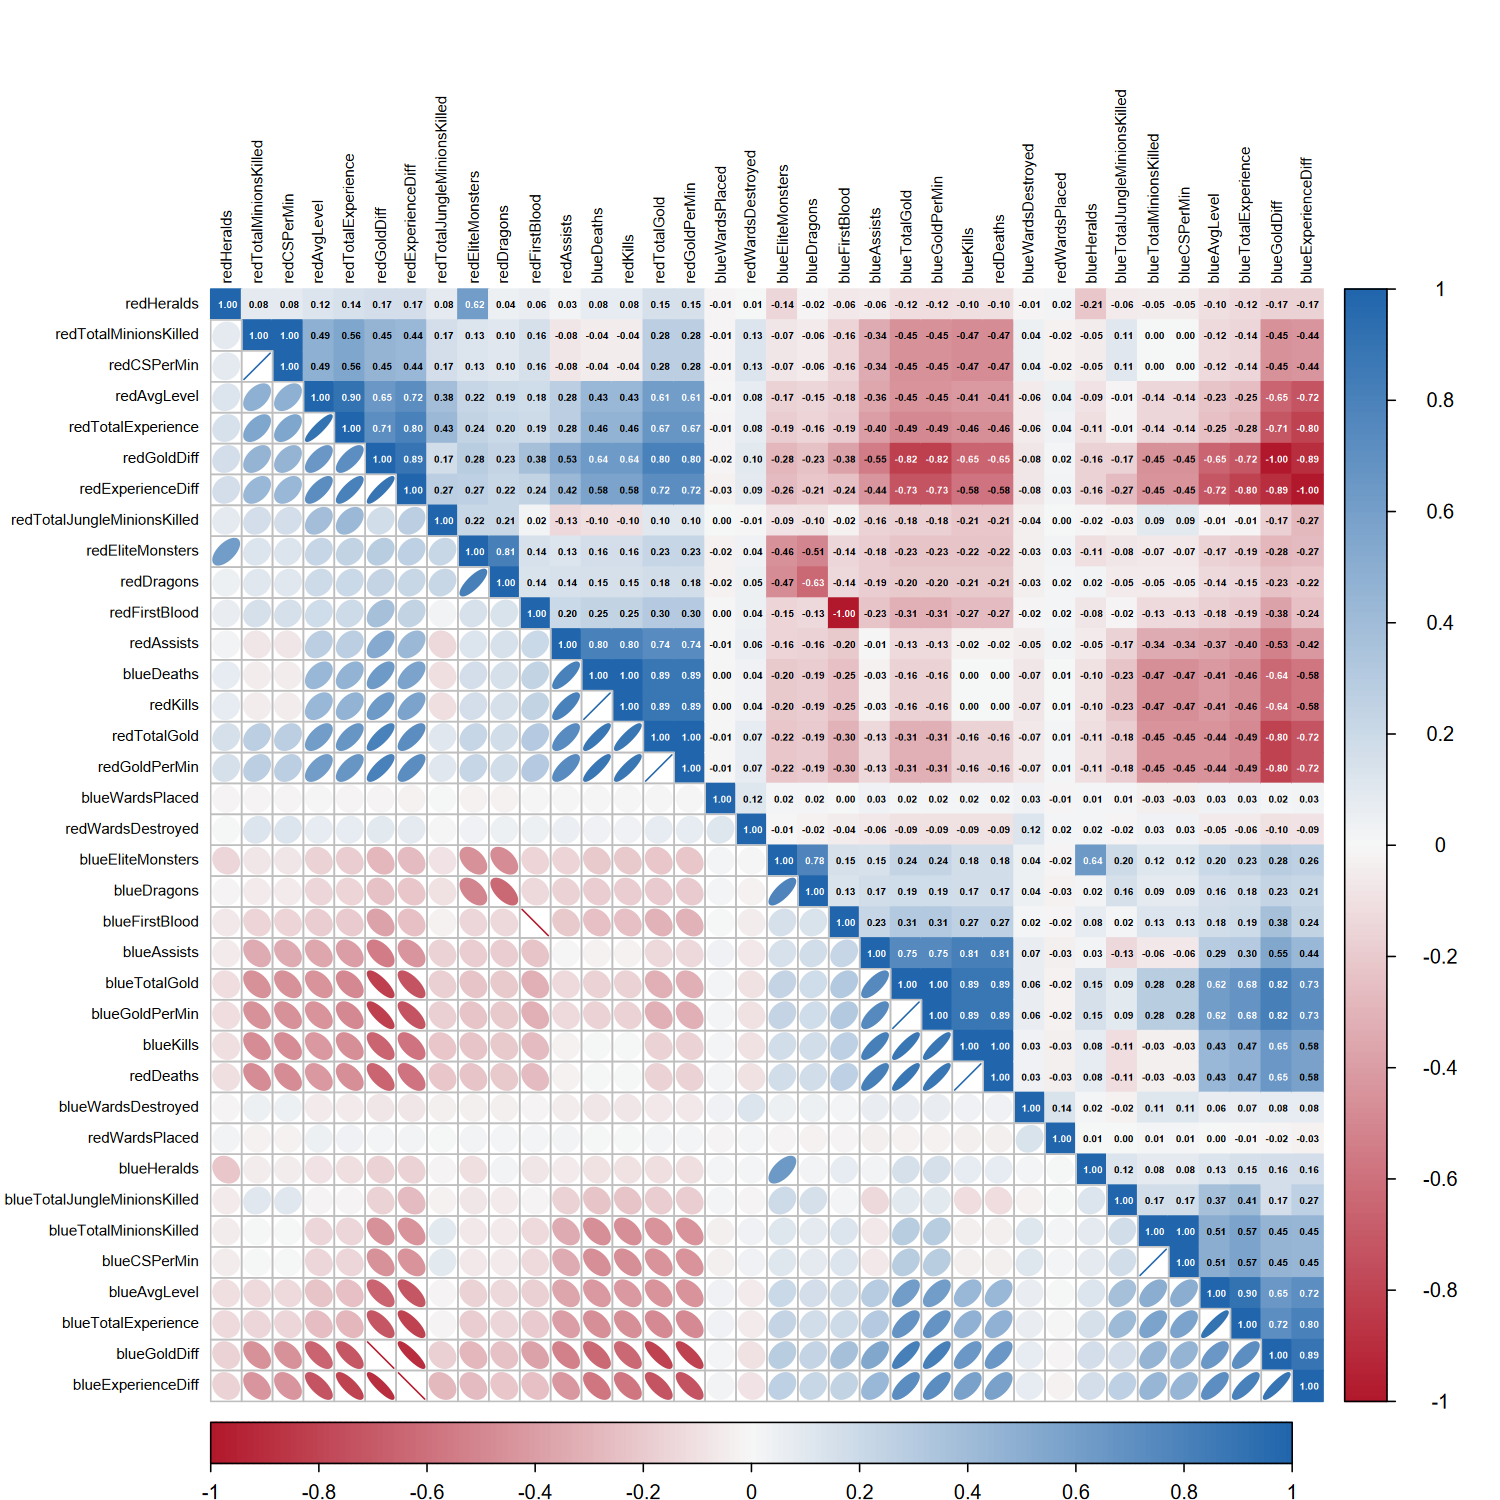
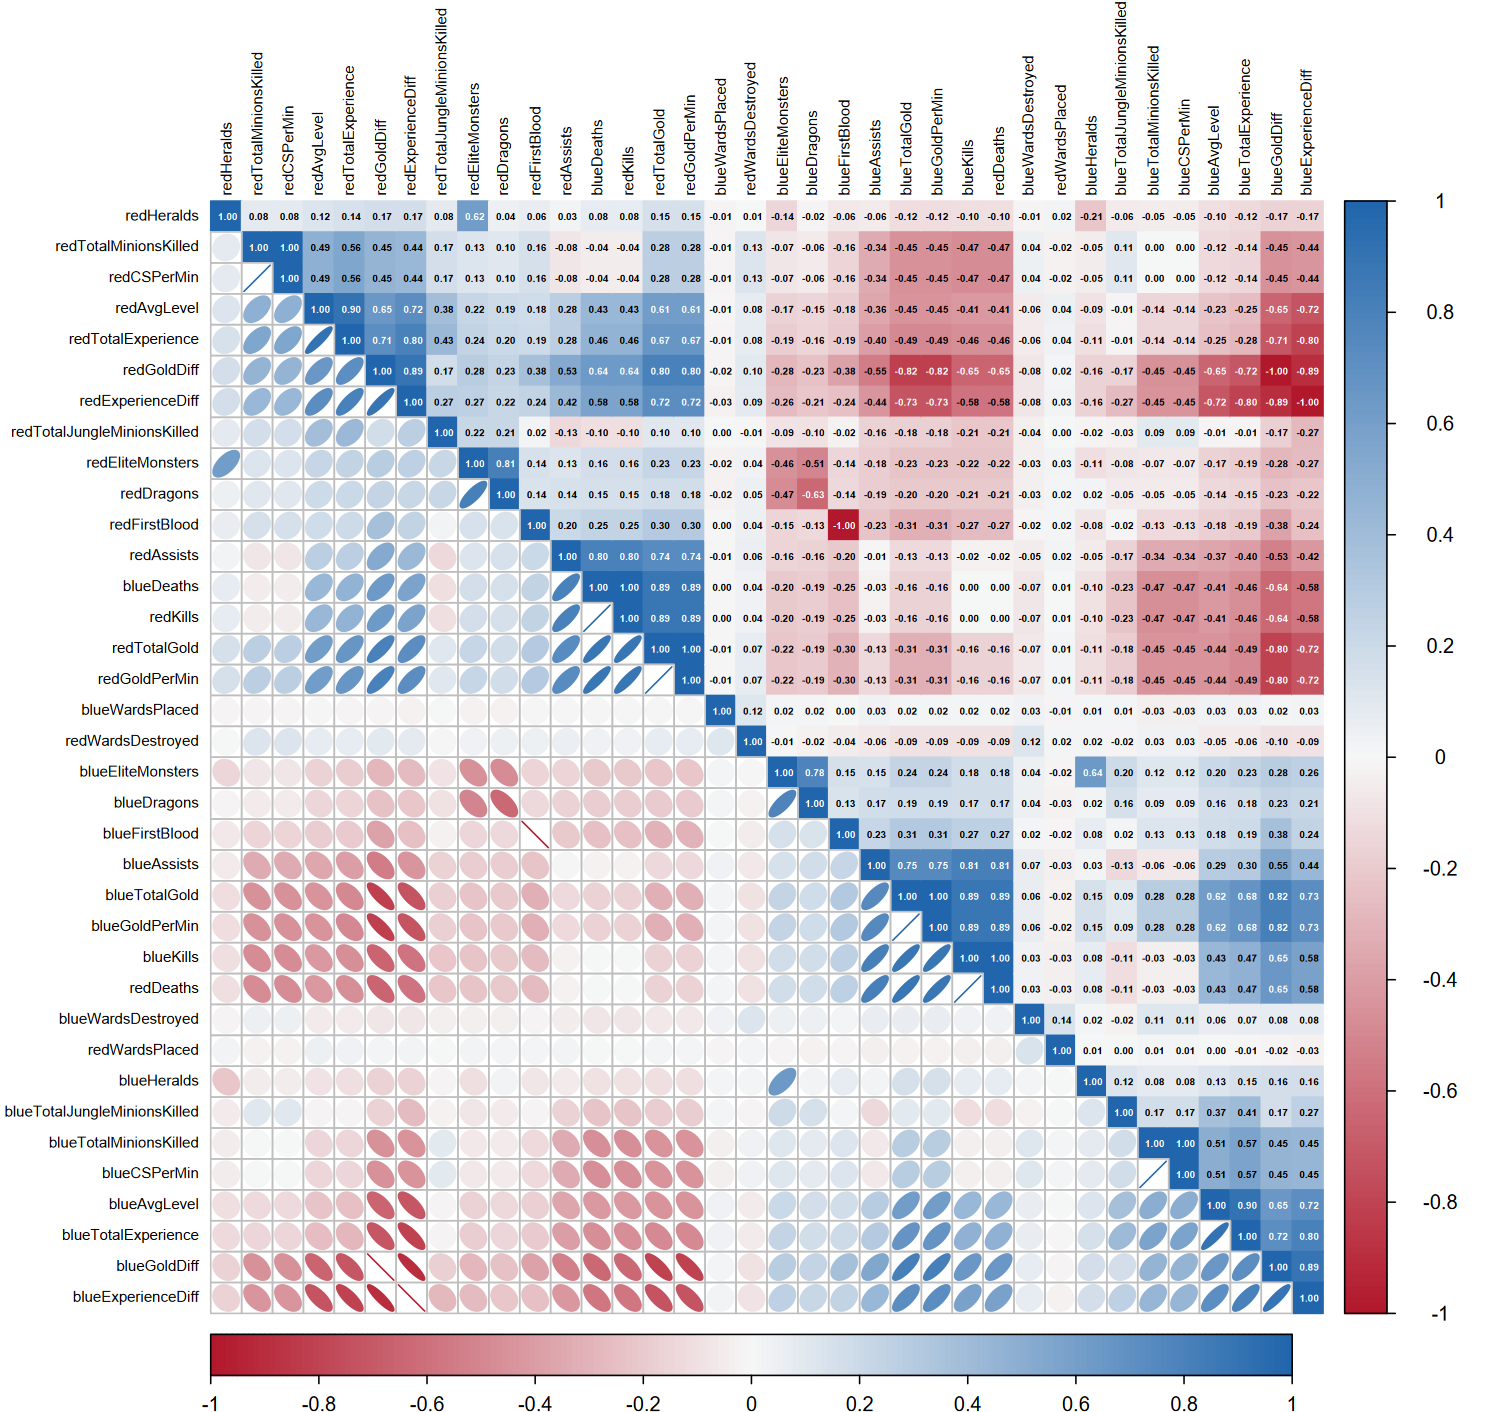
latex abstract et reliquum

diff --git a/latex/dokument.tex b/latex/dokument.tex
@@ -75,13 +75,13 @@
 
 %% ---- Abstract (max 250 words, no citations) ----
 \begin{abstract}
-Lorem ipsum dolor sit amet, consectetur adipiscing elit. Cras ex odio, elementum sit amet quam ac, accumsan pharetra libero. Suspendisse odio nisi, consequat sed ornare sed, convallis sed nulla. Nunc nec enim ut nisi facilisis cursus. Cras nec enim neque. Quisque nec consectetur odio. Pellentesque eget euismod sapien. Cras urna urna, gravida a eros eget, tincidunt scelerisque metus. Ut eget mi vehicula augue bibendum dapibus. Ut tempus tellus eros, eu lobortis est dignissim sit amet. Integer id molestie dolor. Mauris tincidunt nunc erat, ut suscipit lacus pharetra varius. Sed quis neque ut ligula vestibulum egestas a sed felis. Quisque vulputate tincidunt metus. 
+W pracy przeanalizowano możliwość przewidywania wyniku meczów rankingowych gry League of Legends na podstawie danych dostępnych po pierwszych 10 minutach rozgrywki. Wykorzystano publiczny zbiór danych zawierający 9879 meczów oraz statystyki opisujące m.in. ekonomię drużyn, kontrolę mapy i przebieg walk. Przeprowadzono proces przygotowania danych obejmujący usuwanie wartości odstających, standaryzację zmiennych, redukcję cech silnie skorelowanych oraz agregację wybranych zmiennych z wykorzystaniem analizy PCA. Następnie zastosowano pięć metod klasyfikacji: sieć neuronową MLP, drzewo klasyfikacyjne, algorytm k najbliższych sąsiadów (KNN) oraz dwa modele hybrydowe. Skuteczność modeli oceniono za pomocą miar Accuracy i AUC. Najlepsze wyniki uzyskała sieć neuronowa, osiągając dokładność 73,31\% oraz AUC równe 0,811. Otrzymane rezultaty wskazują, że informacje dostępne we wczesnej fazie meczu pozwalają z dobrą skutecznością przewidywać jego końcowy wynik.
+
 \end{abstract}
-
-%% ---- Keywords (minimum 3, maximum 5) ----
-\keywords{League of Legends, LoL, klasyfikacja, predykcja wyniku meczu, sieci neuronowe, drzewo klasyfikacyjne, KNN}
-
+\keywords{League of Legends, LoL, klasyfikacja, predykcja wyniku meczu, sieci neuronowe, drzewo klasyfikacyjne, KNN, model hybrydowy}
+\small
 \tableofcontents
+\normalsize
 \newpage
 
 %% ============================================================
@@ -96,7 +96,7 @@ Współczesne gry sieciowe generują duże ilości danych opisujących przebieg 
 
 Problem badawczy poruszany w niniejszej pracy dotyczy możliwości przewidywania wyniku meczu rankingowego na podstawie statystyk z pierwszych 10 minut rozgrywki, gdzie przecięty mecz trwa 30 minut. W pracy wykorzystano dane dotyczące meczów rankingowych w celu zbadania, czy metody klasyfikacji pozwalają przewidywać zwycięstwo lub porażkę drużyny niebieskiej na podstawie cech opisujących początkową fazę meczu. Dodatkowym celem jest określenie, które zmienne mają największy wpływ na skuteczność modeli klasyfikacyjnych.
 
-\subsection{Wyjaśnienie terminów}
+Wyjaśnienie terminów:
 \begin{itemize}
 \item \textbf{Doświadczenie} --- Doświadczenie (experience, XP) jest zasobem zdobywanym przez bohaterów podczas rozgrywki głównie poprzez przebywanie w pobliżu eliminowanych przeciwników, takich jak miniony czy potwory z dżungli. Zdobywanie doświadczenia pozwala bohaterom awansować na kolejne poziomy, co zwiększa ich statystyki oraz umożliwia rozwijanie umiejętności.
 \item \textbf{Złoto}---- Złoto jest podstawową walutą występującą w grze. Może być zdobywane między innymi poprzez eliminowanie minionów, bohaterów przeciwnika, potworów z dżungli oraz niszczenie struktur. Zgromadzone złoto pozwala na zakup przedmiotów zwiększających siłę bohatera.
@@ -123,7 +123,7 @@ jako wygrana lub przegrana drużyny niebieskiej.
 
 Istotnym elementem pracy jest porównanie wyników uzyskanych za pomocą trzech
 metod klasyfikacji: sieci neuronowych, drzewa klasyfikacyjnego oraz KNN,
-a także metody mieszanej [TODO][NAZWA METODY MIESZANEJ], łączącej cechy wybranych podejść.
+a także dwóch metod mieszanych, łączących cechy wybranych podejść.
 Celem analizy jest wskazanie, które z zastosowanych rozwiązań najlepiej przewiduje wynik
 meczu na podstawie danych dostępnych na wczesnym etapie gry.
 
@@ -133,35 +133,17 @@ rezultatu.
 
 Zakres badania obejmuje:
 \begin{itemize}
-\item charakterystykę oraz analizę zbioru danych zawierającego statystyki meczów League of Legends,
-\item przeprowadzenie wstępnej analizy danych, obejmującej statystyki opisowe oraz analizę korelacji pomiędzy zmiennymi,
-\item przygotowanie danych do procesu uczenia modeli, w tym obsługę wartości odstających, analizę braków danych, skalowanie cech oraz usunięcie zbędnych zmiennych,
-\item analizę końcowego zbioru danych po przeprowadzeniu preprocessingu,
-\item przedstawienie teoretycznych podstaw zastosowanych metod klasyfikacji,
-\item implementację oraz zastosowanie metod klasyfikacji: sieci neuronowe, drzewo klasyfikacyjne, KNN oraz [TODO][NAZWA METODY HYBRYDOWEJ],
-\item ocenę skuteczności modeli przy użyciu wybranych miar jakości klasyfikacji,
-\item analizę i interpretację uzyskanych wyników,
-\item porównanie skuteczności zastosowanych metod klasyfikacji,
-\item wykorzystanie najlepszego modelu do klasyfikacji syntetycznie wygenerowanych danych testowych.
-\end{itemize}
-[TODO][zweryfikowac czy ta lista jest poprawna]
-
-Analizę danych oraz implementację modeli klasyfikacyjnych wykonano przy użyciu języka R. Obliczenia przeprowadzono w środowisku RStudio. Użyte biblioteki:
-\begin{itemize}
-    \item keras3
-    \item tensorflow
-    \item synthpop
-    \item dplyr
-    \item ggplot2
-    \item ggtext
-    \item factoextra
-    \item corrplot
-    \item psych
-    \item caret
-    \item tree
-    \item class
+\item analizę surowego zbioru danych,
+\item przygotowanie zbioru do modeli klasyfikacyjnych,
+\item analizę końcowego zgioru danych,
+\item zastosowanie wybranych modeli klasyfikacyjnych i ich walidacja,
+\item ocenienie i interpretacja wyników klasyfikatorów,
+\item porównanie skuteczności modeli,
+\item przetestowanie modeli na syntetycznych danych,
 \end{itemize}
 
+Analizę danych oraz implementację modeli klasyfikacyjnych wykonano przy użyciu języka R. Obliczenia przeprowadzono w środowisku RStudio. Użyte biblioteki: \textit{synthpop, psych, class, caret, keras3, ggplot2, tree, factoextra, corrplot, ggtext, dplyr} oraz \textit{tensorflow}.
+\newpage
 \subsection{Zbiór danych}
 W pracy wykorzystano publicznie dostępny zbiór danych zawierający statystyki meczów rankingowych gry League of Legends. Dane pochodzą z serwisu Kaggle i zostały pozyskane przy użyciu oficjalnego API udostępnianego przez Riot Games.
 
@@ -174,7 +156,6 @@ Zbiór danych składa się z 9879 rekordów oraz 40 zmiennych. Zmienną decyzyjn
 Klasy w zbiorze danych są w przybliżeniu zbalansowane, co oznacza, że liczba zwycięstw drużyny niebieskiej i czerwonej jest podobna.
 
 \subsection{Przeglad literatury}
-[TODO][DODAC CYTOWNIA DO PRAC Z KAGGLA][wspomniec czym sie zainspirowalismy z pracy francuza]
 Ze względu na ograniczoną liczbę prac dotyczących wczesnej fazy gry w League of Le-
 gends, przegląd oparto głównie na dwóch analizach z Kaggle wykorzystujących ten sam
 zbiór danych. 
@@ -283,7 +264,7 @@ x =
 Po oznaczeniu wartości odstających jako brakujące usuwano wszystkie rekordy zawierające przynajmniej jedną wartość \texttt{NA}. Ostatecznie ze zbioru danych usunięto 190 rekordów, co stanowiło w przybliżeniu 1.92\% wszystkich obserwacji.
 
 Zastosowana metoda pozwoliła ograniczyć wpływ skrajnych obserwacji na proces uczenia modeli oraz zmniejszyć ryzyko zaburzenia działania algorytmów przez nietypowe wartości.
-
+\newpage
 \subsection{Standaryzowanie danych}
 
 W celu ujednolicenia rozkładów oraz zakresów wartości poszczególnych cech zastosowano standaryzację danych z wykorzystaniem funkcji \texttt{scale()} dostępnej w języku R. Metoda ta polega na przekształceniu wartości zmiennych w taki sposób, aby każda cecha posiadała średnią równą 0 oraz odchylenie standardowe równe 1.
@@ -313,6 +294,7 @@ W wyniku zastosowania standaryzacji wszystkie analizowane cechy numeryczne zosta
 	\item redTowersDestroyed
 \end{itemize}
 \indent Otrzymaliśmy więc cechę "TowersDestroyed" dla obu drużyn. Dodatkowo z tabeli 1 wiemy, że ich mediany wynoszą 0. Nie powinno to zaskakiwać, jako że w pierwszych 10 minutach rozgrywki - względnie początkowej fazie - rzadko się zdarza zniszczenie wieży przeciwnika. W związku z powyższym usuwamy te 2 cechy z naszego data setu.
+\newpage
 \subsubsection{Skorelowane prosto, liniowo}
 \indent Cechy skorelowane prosto, liniowo, to takie, pomiędzy którymi istnieje korelacja cecha do cechy. Ergo w tej podsekcji zajmiemy się znajdowaniem takich par i usuwaniu jednej z cech na tej podstawie. Wykorzystamy do tego wbudowaną funkcję w R o nazwie "cor". Za jej pomocą stworzymy macierz korelacji. Wizualizacji dokonamy z wykorzystaniem funkcji "corrplot" z pakietu o tej samej nazwie.
 \begin{figure}[H]
@@ -322,7 +304,7 @@ W wyniku zastosowania standaryzacji wszystkie analizowane cechy numeryczne zosta
 	}
 	\caption{Macierz korelacji dla wszystkich zmiennych bez quasi stałych 1.}
 \end{figure}
-\begin{samepage}
+\newpage
 \indent Powyższa macierz przedstawia korelacje liniowe, proste pomiędzy wszystkimi zmiennymi, jakie nam zostały po usunięciu quasi stałych. Na jego postawie możemy znaleźć bardzo silnie skorelowane, czyli takie, których poziom korelacji jest większy bądź równy 0.9, pary cech:
 \begin{table}[H]
   \centering
@@ -345,8 +327,6 @@ W wyniku zastosowania standaryzacji wszystkie analizowane cechy numeryczne zosta
 \end{tabular}
 \caption{Tabela korelacji silnie skorelowanych zmiennych 1.}
 \end{table}
-\end{samepage}
-\begin{samepage}
 \indent Na podstawie powyższego możemy usunąć następujące cech;
 \begin{itemize}
 	\item blueFirstBlood
@@ -361,7 +341,6 @@ W wyniku zastosowania standaryzacji wszystkie analizowane cechy numeryczne zosta
 	\item redAvgLevel 
 	\item redTotalMinionsKilled 
 \end{itemize}
-\end{samepage}
 \begin{samepage}
 \subsubsection{Skorelowane wielokrotnie, liniowo}
 \indent \indent Dodatkowo, możemy, korzystając z definicji poszczególnych cech, zebrać korelacje wielokrotne, liniowe; innymi słowy takie korelacje, w których to jedna zmienna jest skorelowana liniowo z więcej niż jedną. Takich relacji mamy aż 6 i są one przedstawione poniżej:
@@ -382,7 +361,7 @@ W wyniku zastosowania standaryzacji wszystkie analizowane cechy numeryczne zosta
 	\item $blueTotalExperience$ i $redTotalExperience$ jako że uznajemy różnicę między nimi za istotniejszą od tych zmiennych samych w sobie
 \end{itemize}
 \end{samepage}
-
+\newpage
 \subsection{Łączenie zmiennych}
 \indent \indent Po porzedniej podsekcji zostały nam cechy przedstawione na narysowanej poniżej macierzy korelacji:
 \begin{figure}[H]
@@ -409,7 +388,7 @@ W wyniku zastosowania standaryzacji wszystkie analizowane cechy numeryczne zosta
 \end{tabular}
 \caption{Tabela korelacji silnie skorelowanych zmiennych 2.}
 \end{table}
-\indent Te cechy zagragujemy liniowo w jedną, dla każdej drużyny, wedle następującej reguły:
+\indent Te cechy zagragujemy liniowo w jedną, dla każdej drużyny, wedle następującej reguły \cite{arancio_decisions_10min}:
 \begin{equation}
 	KA = Kills + Assists
 \end{equation}
@@ -486,6 +465,7 @@ W skrypcie będziemy bazować na wbudowanej funkcji "prcomp" i do wizualizacji r
 \indent Po wykonaniu wszystkich kroków usuwania silnie i bardzo silnie skorelowanych cech możemy przedstawić jak ostatecznie wygląda macierz korelacji. Dodatkowo macierz uwzględnia cechę $blueWins$, aby dodatkowo ukazać jak silnie jest ona skorelowana ze zmiennymi, które ostatecznie zostały.
 
 \section{Analiza końcowego zbioru danych}
+Po wstępnym przetworzeniu zbioru danych zostało nam 9689 rekordów oraz 16 zmiennych (nie licząc zmiennej przewidywanej).
 \subsection{Wyjaśnienie zmiennych}
 \begin{itemize}
 	\item {\bf blueWardsPlaced} --- Ilość wardów postawionych przez druyżynę niebieską.
@@ -505,9 +485,9 @@ W skrypcie będziemy bazować na wbudowanej funkcji "prcomp" i do wizualizacji r
 	\item {\bf redKA} --- Łączna ilość zabójstw i asyst drużyny czerwonej.
 	\item {\bf diff\_PCA\_Component\_1} --- Nowa zmienna utworzona w procesie PCA ze zmiennych \textit{redGoldDiff} i \textit{redExperienceDiff}.
 \end{itemize}
-
+\newpage
 \subsection{Charakterystyka zmiennych}
-Zmienne opisujące opisujące ilość zabitych smoków i heroldów powinny być zmiennymi numerycznymi jednak przez ograniczoną naturę badanego zbioru danych przyjmują jedynie wartości 0 lub 1. Z tego powodu zostały one opisane jako zmienne binarne.
+Zmienne opisujące ilość zabitych smoków i heroldów powinny być zmiennymi numerycznymi jednak przez ograniczoną naturę badanego zbioru danych przyjmują jedynie wartości 0 lub 1. Z tego powodu zostały one opisane jako zmienne binarne.
 \begin{table}[H]
 \centering
 \begin{tabular}{l l l l}
@@ -564,9 +544,9 @@ Zmienne opisujące opisujące ilość zabitych smoków i heroldów powinny być 
 }
 \caption{Statystyki opisowe końcowych zmiennych.}
 \end{table}
-
+\newpage
 \subsection{Wizualizacja}
-Poniżej przedstawiono wizualizacje zmiennych po wstępnej analizie danych z pominięciem skalowania dla zachowania czytelności wykresów.
+Poniżej przedstawiono wizualizacje zmiennych po wstępnej analizie danych z pominięciem skalowania dla zachowania czytelności wykresów. Dla zmiennych skokowych posiadających więcej niż 55 unikatowych wartości wygenerowano histogramy zamiast barplotów.
 %%%%%%%%%%%%%%%%%%%%%%%%%%%%%%%%%%%%%%%%%%%%%%%%%%%%%%%%%%%%%%%%%
 \begin{figure}[H]
 	\centering
@@ -894,10 +874,41 @@ gdzie:
     \item $I(\cdot)$ -- funkcja wskaźnikowa przyjmująca wartość 1, gdy warunek jest spełniony, oraz 0 w przeciwnym przypadku.
 \end{itemize}
 
-Oprócz przewidywanej klasy algorytm wyznacza również prawdopodobieństwo przynależności do klasy pozytywnej, obliczane jako udział sąsiadów należących do tej klasy.
-
 %%%%%%%%%%%%%%%%%%%%%%%%%%%%%%%%%%%%%%%%%%%%%%%%%%%%%%%%%%%%%%%%%
-\subsection{Opis metody hybrydowej}
+\subsection{Metoda hybrydowa - średnia arytmetyczna}
+W podejściu hybrydowym wykorzystano trzy modele predykcyjne: sieć neuronową, drzewo decyzyjne oraz algorytm $k$-NN. Każdy z modeli generuje prawdopodobieństwo przynależności do klasy pozytywnej. Następnie wyniki te są agregowane poprzez uśrednienie, co pozwala uzyskać końcową prognozę w postaci jednego wskaźnika decyzyjnego:
+
+\begin{equation}
+S = \frac{P_{NN} + P_{KNN} + P_{TREE}}{3}
+\end{equation}
+
+gdzie:
+\begin{itemize}
+	\item $P_{NN}$ --- prawdopodobieństwo uzyskane z sieci neuronowej,
+	\item $P_{KNN}$ --- prawdopodobieństwo uzyskane z KNN,
+	\item $P_{TREE}$ --- prawdopodobieństwo uzyskane z drzewa decyzyjnego.
+\end{itemize}
+
+Na podstawie wartości $S$ wyznaczana jest klasa predykcji z wykorzystaniem progu decyzyjnego $0.5$:
+
+\begin{equation}
+\hat{y} =
+\begin{cases}
+1 & \text{dla } S \geq 0.5 \\
+0 & \text{dla } S < 0.5
+\end{cases}
+\end{equation}
+
+W tym podejściu nie stosowano dodatkowego podziału na zbiór treningowy i testowy, ponieważ wszystkie modele bazowe były już wcześniej trenowane i oceniane na zbiorze testowym. W związku z tym, w metodzie hybrydowej cały dostępny zbiór traktowany jest jako zbiór testowy i wykorzystywany wyłącznie do agregacji wyników modeli składowych.
+
+\subsection{Metoda hybrydowa - sieć neuronowa}
+Model hybrydowy oparty na sieci neuronowej stanowi rozszerzenie bazowej sieci MLP. W przeciwieństwie do modelu bazowego, który wykorzystuje bezpośrednio cechy wejściowe zbioru danych, w podejściu hybrydowym jako dane wejściowe zastosowano prawdopodobieństwa klas wygenerowane przez trzy niezależne klasyfikatory: sieć neuronową MLP, algorytm k najbliższych sąsiadów (KNN) oraz drzewo klasyfikacyjne.
+
+Uzyskane wartości prawdopodobieństw zostały połączone w nowy zbiór cech, który następnie wykorzystano do trenowania końcowej sieci neuronowej pełniącej rolę klasyfikatora nadrzędnego. Takie podejście należy do metod typu \textit{stacking}, w których predykcje modeli bazowych stanowią wejście dla modelu wyższego poziomu.
+
+Pod względem architektury model hybrydowy zachowuje taką samą strukturę jak bazowa sieć neuronowa, tj. dwie warstwy ukryte oraz warstwę wyjściową. Ze względu na mniejszą liczbę cech wejściowych zmodyfikowano jednak liczbę neuronów w warstwach ukrytych. W modelu bazowym zastosowano odpowiednio 128 i 64 neurony, natomiast w modelu hybrydowym liczby te zredukowano do 32 i 8 neuronów. Pozostawiono te same funkcje aktywacji, warstwy regularyzacyjne typu \texttt{Dropout}, funkcję kosztu \texttt{binary\_crossentropy} oraz optymalizator \texttt{RMSprop}.
+
+W porównaniu z bazową siecią neuronową model hybrydowy operuje na trzech cechach wejściowych odpowiadających predykcjom modeli bazowych, zamiast na pełnym zbiorze cech opisujących obserwacje. Celem takiej konstrukcji jest połączenie mocnych stron różnych algorytmów klasyfikacyjnych i uzyskanie lepszej jakości predykcji niż w przypadku pojedynczego modelu.
 %%%%%%%%%%%%%%%%%%%%%%%%%%%%%%%%%%%%%%%%%%%%%%%%%%%%%%%%%%%%%%%%%
 \subsection{Metody oceniania}
 
@@ -1038,9 +1049,75 @@ Wartość AUC przyjmuje wartości z przedziału $[0,1]$, gdzie wartość 1 oznac
         \label{fig:both_images}
     \end{figure}
 
-\subsection{Rezultat metody hybrydowej}
+\newpage
+\subsection{Metoda hybrydowa - średnia arytmetyczna}
+    \begin{figure}[H]
+        \centering
+        \includegraphics[width=0.7\textwidth]{../Plots/confusion_matrixes/Mixed_AVG_real_data .png}
+	\caption{Macierz pomyłek dla metody mieszanej na bazie średniej arytmetycznej.}
+        \label{fig:both_images}
+    \end{figure}
+    \begin{figure}[H]
+        \centering
+        \includegraphics[width=0.6\textwidth]{../Plots/roc_curves/roc_Model hybrydowy śr. (R).png}
+	\caption{Wykres krzywej ROC dla metody mieszanej na bazie średniej arytmetycznej.}
+        \label{fig:both_images}
+    \end{figure}
+
+
+\newpage
+\subsection{Metoda hybrydowa - sieć neuronowa}
+    \begin{figure}[H]
+        \centering
+        \includegraphics[width=0.7\textwidth]{../Plots/confusion_matrixes/Mixed_NN_real_data.png}
+	\caption{Macierz pomyłek dla metody mieszanej na bazie sieci neuronowej.}
+        \label{fig:both_images}
+    \end{figure}
+    \begin{figure}[H]
+        \centering
+        \includegraphics[width=0.6\textwidth]{../Plots/roc_curves/roc_Model hybrydowy MLP(R).png}
+	\caption{Wykres krzywej ROC dla metody mieszanej na bazie sieci neuronowej.}
+        \label{fig:both_images}
+    \end{figure}
+
+
+\newpage
 \subsection{Porównanie skuteczności metod}
-\subsection{Użycie najlepszego modelu na syntetycznych danych}
+
+\begin{table}[H]
+  \centering
+\begin{tabular}{l c c}
+	\toprule
+	\textbf{Model} & \textbf{Accuracy} &  \textbf{AUC}  \\
+	\midrule
+	Sieci Neuronowe & 73,31\% & 0,811 \\ 
+	Drzewo Klasyfikacyjne &  72,69\% & 0,782 \\
+	KNN  & 71,59\% & 0,793 \\
+	hybr. - Sieć neuronowa  & 71,67\% & 0,802 \\
+	hybr. Średnia & 72,96\%  & 0,808 \\
+	\bottomrule
+\end{tabular}
+\caption{Rezultaty modeli na danych testowych.}
+\end{table}
+
+\subsection{Użycie modeli na syntetycznych danych}
+W celu sprawdzenia działania modeli na nowych obserwacjach wygenerowano syntetyczny zbiór danych z wykorzystaniem pakietu \texttt{synthpop} w języku R. Do syntezy zastosowano metodę \texttt{CART} (\textit{Classification and Regression Trees}), która modeluje zależności między zmiennymi za pomocą drzew decyzyjnych i na ich podstawie generuje nowe rekordy. Wygenerowany zbiór zawierał 9689 syntetycznych obserwacji. Parametr \texttt{cart.minbucket = 10} ogranicza nadmierne dopasowanie modelu, natomiast \texttt{seed = 67} zapewnia powtarzalność wyników. Otrzymany zbiór syntetyczny został wykorzystany jako dane testowe dla opracowanych modeli predykcyjnych.
+
+\begin{table}[H]
+  \centering
+\begin{tabular}{l c c}
+	\toprule
+	\textbf{Model} & \textbf{Accuracy} &  \textbf{AUC}  \\
+	\midrule
+	Sieci Neuronowe & 72,82\% & 0,804 \\ 
+	Drzewo Klasyfikacyjne &  71,49\% & 0,769 \\
+	KNN  & 71,47\% & 0,789 \\
+	hybr. - Sieć neuronowa  & 72,69\% & 0,805 \\
+	hybr. - Średnia & 72,48\%  & 0,800 \\
+	\bottomrule
+\end{tabular}
+\caption{Rezultaty modeli na danych syntetycznych.}
+\end{table}
 
 \section{Podsumowanie}
 
@@ -1052,7 +1129,8 @@ Poniżej znajduje się lista załączonych plików do projektu wraz z ich opisam
 \item \textbf{CorrelationWisualization.R} --- Analiza i wizualizacja korelacji oraz usuwanie silnie skorelowanych zmiennych.
 \item \textbf{endDatasetWisualization.R} --- Generowanie wykresów opisujących cechy końcowego zbioru danych.
 \item \textbf{KNN.R} --- Implementacja klasyfikatora KNN z doborem parametru k i oceną modelu.
-\item \textbf{MixedModel.R} --- Implementacja modelu mieszanego na bazie trzech modeli podstawowych oraz jego ocena. 
+\item \textbf{MixedModel.R} --- Implementacja modelu mieszanego na bazie średniej arytmetycznej oraz jego ocena.
+\item \textbf{MixedModelNeural.R} --- Implementacja modelu mieszanego na bazie sieci nauronowych oraz jego ocena.
 \item \textbf{PCA.R} --- Redukcja wymiarowości danych metodą PCA wraz z wizualizacją wyników.
 \item \textbf{PreliminaryAnalisys.R} --- Wstępne przygotowanie i przetwarzanie danych.
 \item \textbf{ROC.R} --- Generowanie krzywych ROC i obliczanie wartości AUC.
@@ -1086,21 +1164,21 @@ Dostęp: \url{https://www.kaggle.com/code/jeremyarancio/which-decisions-before-1
 % NN
 \bibitem{NN}
 Albina Jegorowa, Jarosław Kurek, Michał Kruk, Jarosław Górski,
-\textit{Artykuł z Forests},
+\textit{The Use of Multilayer Perceptron (MLP) to Reduce Delamination during Drilling into Melamine Faced Chipboard},
 Forests, vol. 13, no. 6, 2022, art. 933.  
 Dostęp: \url{https://doi.org/10.3390/f13060933}
 
 % TREE
 \bibitem{TREE}
 Krzysztof Gajowniczek, Marcin Dudziński,
-\textit{Artykuł z Entropy},
+\textit{Influence of Explanatory Variable Distributions on the Behavior of the Impurity Measures Used in Classification Tree Learning},
 Entropy, vol. 26, no. 12, 2024, art. 1020.  
 Dostęp: \url{https://doi.org/10.3390/e26121020}
 
 % KNN
 \bibitem{KNN}
 Tomasz Ząbkowski \textit{et al.},
-\textit{Artykuł z Energies},
+\textit{Changing Electricity Tariff—An Empirical Analysis Based on Commercial Customers’ Data from Poland},
 Energies, vol. 16, no. 19, 2023, art. 6853.  
 Dostęp: \url{https://doi.org/10.3390/en16196853}
 \end{thebibliography}

diff --git a/latex/library_extracter.py b/latex/library_extracter.py
@@ -1,0 +1,33 @@
+import os
+import re
+
+repo_path = r"D:\School\SGGW\semestr_4\Metody analizy danych\projekt2\repo"
+
+r_files = []
+for file in os.listdir(repo_path):
+    if file.endswith(".R"):
+        r_files.append(file)
+
+libraries = []
+
+for file in r_files:
+    file_path = repo_path + "\\" + file
+    print(file_path)
+    
+    with open(file_path, "r", encoding="utf-8") as f:
+        file_content = f.read()
+
+    pattern = r"library\((.*?)\)"
+    matches = re.findall(pattern, file_content)
+    libraries += matches
+    print(matches)
+    print()
+
+libraries = list(set(libraries))
+print(libraries)
+print()
+
+print(r"\textit{" + libraries[0], end="")
+for lib in libraries[1:-1]:
+    print(", " + lib, end="")
+print("} oraz " + r"\textit{" + libraries[-1] + "}")